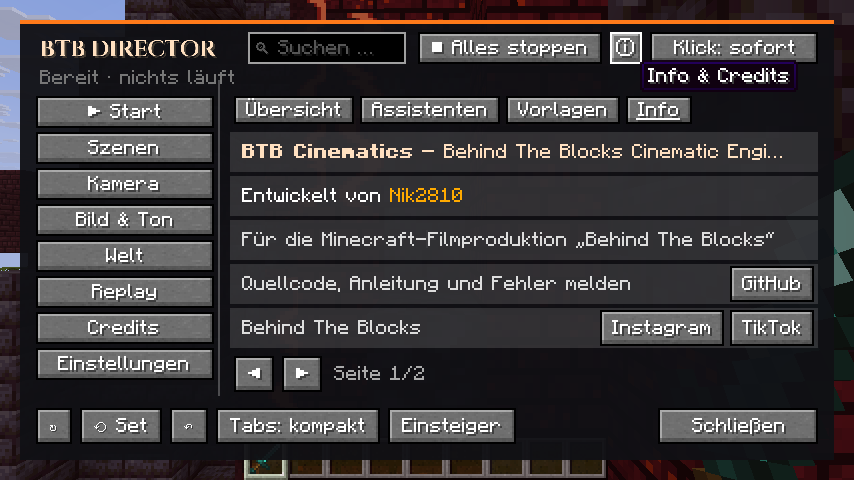
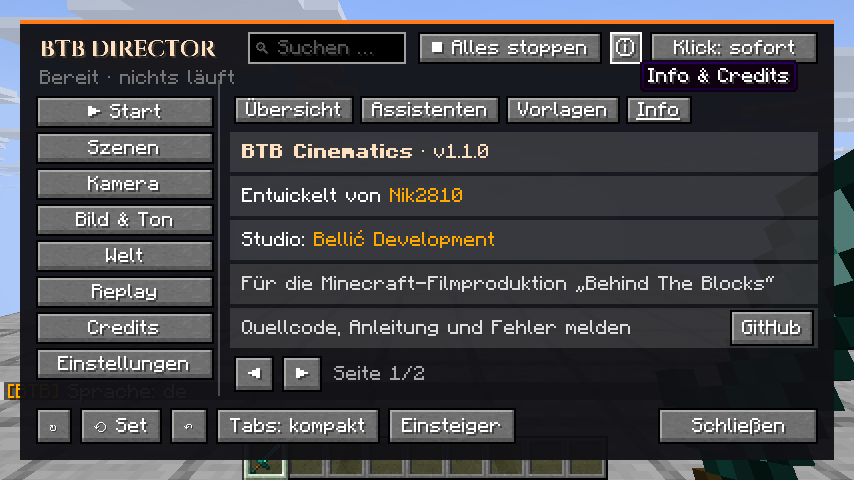
Info page: studio Bellić Development, YouTube link
Claude-Session: https://claude.ai/code/session_01S4occ6yT9sDDTjBcNQkVeo

diff --git a/src/client/java/de/behindtheblocks/cinematic/client/director/DirectorScreen.java b/src/client/java/de/behindtheblocks/cinematic/client/director/DirectorScreen.java
@@ -1730,10 +1730,12 @@ public final class DirectorScreen extends Screen {
 						.map(m -> m.getMetadata().getVersion().getFriendlyString()).orElse("?");
 				rows.add(new Row("§lBTB Cinematics§r · v" + version, 0xFFFFE0C0, List.of()));
 				rows.add(new Row("Entwickelt von §6Nik2810", 0xFFFFFFFF, List.of()));
+				rows.add(new Row("Studio: §6Bellić Development", 0xFFFFFFFF, List.of()));
 				rows.add(new Row("Für die Minecraft-Filmproduktion „Behind The Blocks“", 0xFFDDDDDD, List.of()));
 				rows.add(new Row("Quellcode, Anleitung und Fehler melden", 0xFFDDDDDD, List.of(
 						new Action("GitHub", "local:url:https://github.com/nik0bellic/btb-cinematics", "github.com/nik0bellic/btb-cinematics", true))));
 				rows.add(new Row("Behind The Blocks", 0xFFDDDDDD, List.of(
+						new Action("YouTube", "local:url:https://www.youtube.com/@btb.minecraft", "@btb.minecraft", true),
 						new Action("Instagram", "local:url:https://www.instagram.com/btb.minecraft", "@btb.minecraft", true),
 						new Action("TikTok", "local:url:https://www.tiktok.com/@btb.plus", "@btb.plus", true))));
 				rows.add(new Row("Lizenz: LGPL-3.0-only · Schrift Cinzel: SIL Open Font License 1.1", 0xFF999999, List.of()));

diff --git a/UPDATE_NOTES.md b/UPDATE_NOTES.md
@@ -48,7 +48,7 @@
 - **Leere Bereiche erklären den nächsten Schritt**, mit passendem Knopf.
 - **Eingabefelder klappen sich automatisch ein**, wenn sonst kaum Platz für die Liste bleibt.
 - **Assistenten**: „Ersten Film drehen“, „Replay & Export“, „Kamerafahrt bauen“ – Schritt für Schritt.
-- **Info-Seite** (ⓘ oben bzw. Start → Info): Version, Credits (entwickelt von Nik2810), Links zu GitHub, Instagram und TikTok.
+- **Info-Seite** (ⓘ oben bzw. Start → Info): Version, Credits (entwickelt von Nik2810, Studio: Bellić Development), Links zu GitHub, YouTube, Instagram und TikTok.
 - Tab-Namen werden nie mehr abgeschnitten (die Spalte passt sich an), die untere Leiste wird bei kleinen Fenstern kürzer.
 
 ### ✨ Verbessert

diff --git a/docs/MODRINTH.md b/docs/MODRINTH.md
@@ -79,7 +79,7 @@ With [BTB Skin Studio](https://github.com/nik0bellic/BTB-Skin-Studio) installed,
 
 ## 🔗 Links
 - Source code & guides (German): https://github.com/nik0bellic/btb-cinematics
-- Developed by **Nik2810** · License: **LGPL-3.0-only** (font Cinzel: SIL OFL 1.1)
+- Developed by **Nik2810** · Studio: **Bellić Development** · YouTube & Instagram: @btb.minecraft · TikTok: @btb.plus · License: **LGPL-3.0-only** (font Cinzel: SIL OFL 1.1)
 
 *Not an official Minecraft product. Not approved by or associated with Mojang or Microsoft.*
 ```
